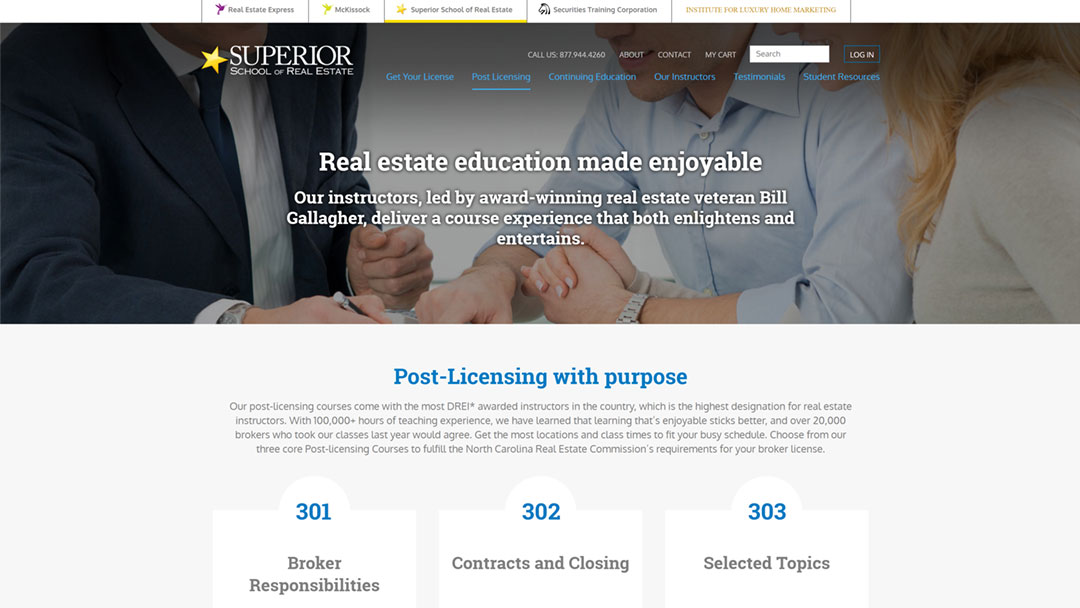
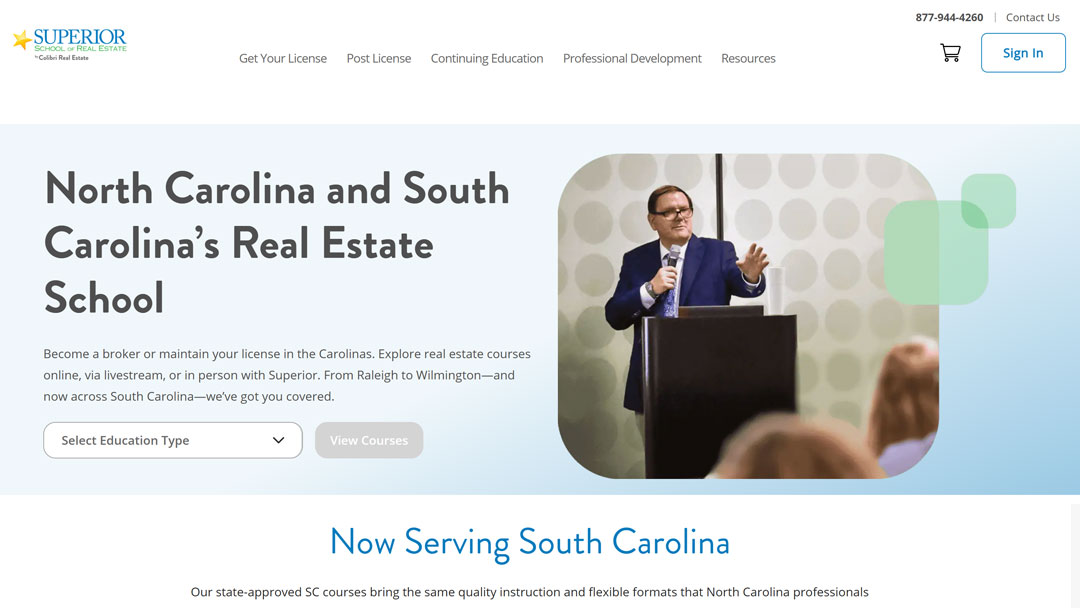
Polish developer copy, project hover, button transitions and contact links

diff --git a/public/assets/site.css b/public/assets/site.css
@@ -335,7 +335,7 @@ nav a,.header-contact {
 .project__image {
   display:block;
   position:relative;
-  background:#ddd;
+  background:var(--panel);
   overflow:hidden;
 }
 .project__image img {
@@ -343,10 +343,10 @@ nav a,.header-contact {
   aspect-ratio:5/3;
   object-fit:cover;
   object-position:top;
-  transition:transform .3s;
+  transition:filter 0.2s ease;
 }
 .project__image:hover img {
-  transform:scale(1.025);
+  filter:brightness(1.06);
 }
 .project__image span {
   position:absolute;
@@ -656,7 +656,18 @@ details p {
   margin-top: 10px;
 }
 
-
 #software .project__caption h3 a {
   text-decoration: none;
+}
+
+/* Colour transitions keep image edges stationary and focus outlines immediate. */
+button, .button {
+  transition: background-color 0.2s ease, color 0.2s ease, border-color 0.2s ease;
+}
+.player button:hover {
+  background: #e1efcf;
+}
+.lightbox button:hover {
+  color: var(--accent);
+  border-color: var(--accent);
 }

diff --git a/public/index.php b/public/index.php
@@ -23,7 +23,7 @@ $softwareProjects = require dirname(__DIR__) . '/src/software-projects.php';
 </div></section>
 <section id="web-design" class="work-section wrap" aria-labelledby="web-title">
 <div class="section-heading"><span class="section-number">02 / WEB DEVELOPMENT</span><h2 id="web-title">Thoughtful design.<br>Careful development.</h2></div>
-<div class="work-grid web-intro"><p class="lead">I build websites with the same care I bring to music: a clear structure, attention to detail, and a feel for how everything fits together.</p><div class="prose"><p>My experience spans WordPress, Laravel, PHP and JavaScript, working alongside design and development teams on e-commerce, company and education websites.</p><p>I’ve worked on more than 100 websites across sectors including finance, law, energy, property and transport, with teams in the UK, US and Asia.</p><a class="text-link" href="https://www.linkedin.com/in/pawel-osmolski/">Experience & project history ↗</a></div></div>
+<div class="work-grid web-intro"><p class="lead">I build websites with the same care I bring to music: a clear structure, attention to detail, and a feel for how everything fits together.</p><div class="prose"><p>My full-stack experience spans JavaScript, React.js and Vue.js, alongside PHP, Laravel and custom WordPress development. I work with design and development teams to build e-commerce platforms, business websites and education services.</p><p>I’ve worked on more than 100 websites across sectors including finance, law, energy, property and transport, with teams in the UK, US and Asia.</p><a class="text-link" href="https://www.linkedin.com/in/pawel-osmolski/">Experience & project history ↗</a></div></div>
 <p class="eyebrow archive-label">From the project archive</p>
 <div class="projects">
 <?php foreach ($projects as $project): ?>
@@ -61,6 +61,6 @@ $softwareProjects = require dirname(__DIR__) . '/src/software-projects.php';
 <?php player('Radiohead remixes & covers', 'https://w.soundcloud.com/player/?url=https%3A%2F%2Fapi.soundcloud.com%2Fplaylists%2F2756743&auto_play=false&visual=true', 'https://soundcloud.com/pawel-osmolski', 'present-tense.jpg'); ?>
 <div class="prose"><p class="lead">Some of my favourite projects started with a simple question: where else could this song go?</p><p>My Radiohead remixes build new arrangements around live performances and early versions of songs. They attracted coverage in Q, MTV News and NME, and became a lasting connection with other fans.</p><p>I’ve also contributed to the <a href="https://www.remix64.com/act/devilhood/">Remix64 community as deVilhoOD</a> and explored my love of 8-bit music on <a href="https://pawel-osmolski.bandcamp.com/album/space-explorer-polaris">Space Explorer Polaris</a>.</p><a class="button button--outline" href="/radiohead-remixes/">Explore the Radiohead remixes ↗</a><a class="press-link" data-lightbox href="<?= e(asset('images/nme.jpg')) ?>">View the original NME clipping ↗</a></div>
 </div></section>
-<section id="contact" class="contact wrap" aria-labelledby="contact-title"><p class="eyebrow">Have something in mind?</p><h2 id="contact-title">Let’s make<br>something good.</h2><p>For a website, a piece of music, or a conversation about a project, get in touch.</p><a class="contact__email" href="mailto:pawel@pawel-osmolski.com">pawel@pawel-osmolski.com <span aria-hidden="true">↗</span></a><div class="social-links"><a href="https://soundcloud.com/pawel-osmolski">SoundCloud</a><a href="https://filiposcar.bandcamp.com/">Bandcamp</a><a href="https://www.youtube.com/c/FILIPOSCAR">YouTube</a><a href="https://instagram.com/captainstarpaw">Instagram</a></div></section>
+<section id="contact" class="contact wrap" aria-labelledby="contact-title"><p class="eyebrow">Have something in mind?</p><h2 id="contact-title">Let’s make<br>something good.</h2><p>For a website, a piece of music, or a conversation about a project, get in touch.</p><a class="contact__email" href="mailto:pawel@pawel-osmolski.com">pawel@pawel-osmolski.com <span aria-hidden="true">↗</span></a><div class="social-links"><a href="https://github.com/Pav-Osmolski">GitHub</a><a href="https://www.linkedin.com/in/pawel-osmolski/">LinkedIn</a><a href="https://soundcloud.com/pawel-osmolski">SoundCloud</a><a href="https://filiposcar.bandcamp.com/">Bandcamp</a><a href="https://www.youtube.com/c/FILIPOSCAR">YouTube</a><a href="https://instagram.com/captainstarpaw">Instagram</a></div></section>
 </main>
 <?php page_end(); ?>
